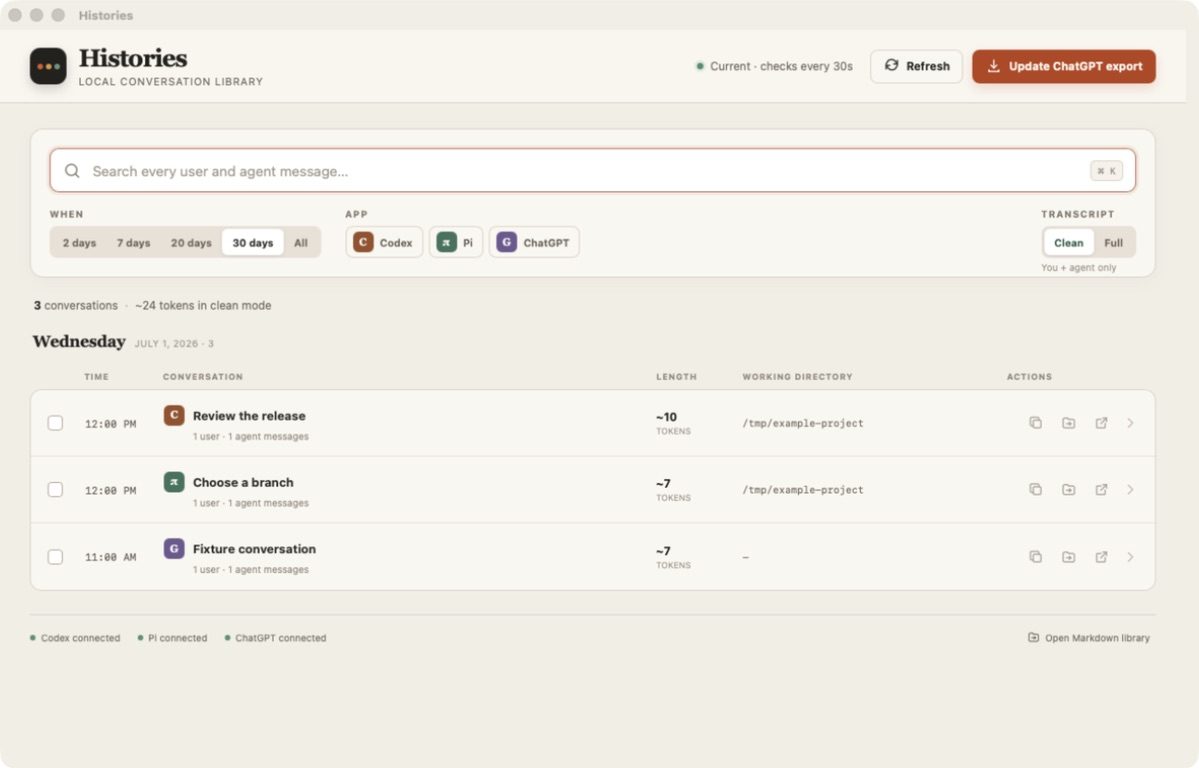
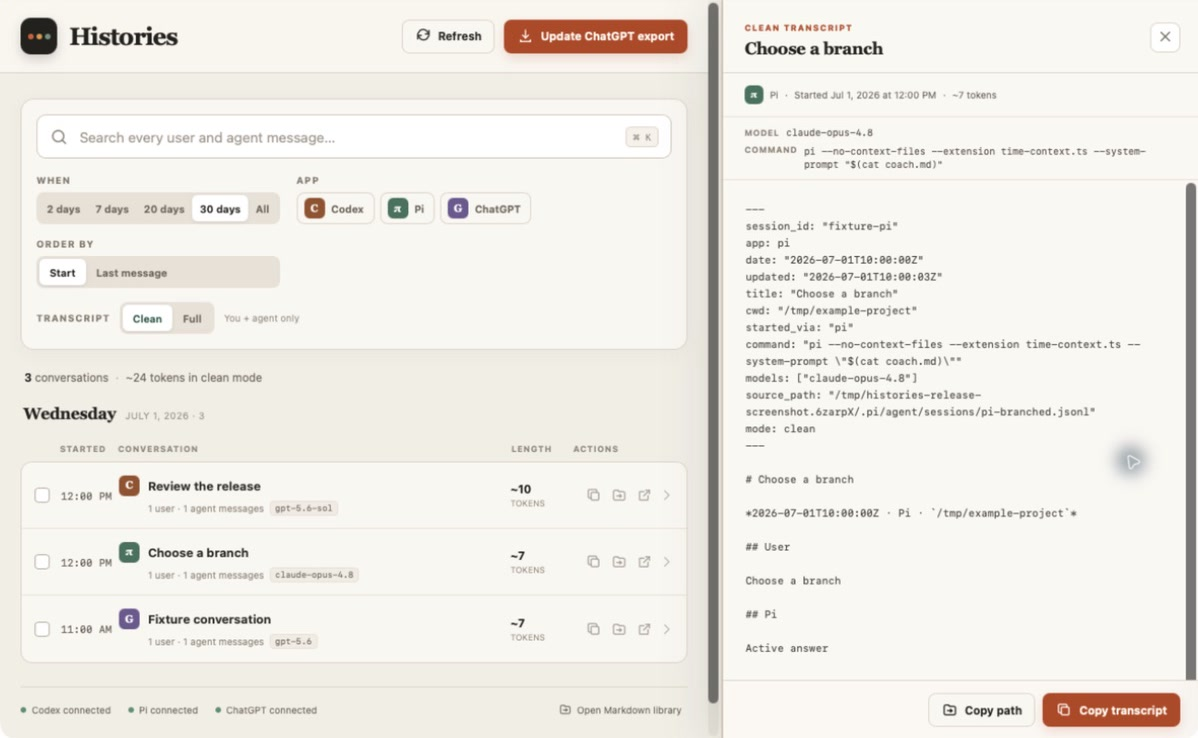
Prepare Histories for its initial public release

diff --git a/crates/histories-core/src/shell_history.rs b/crates/histories-core/src/shell_history.rs
@@ -156,7 +156,7 @@ mod tests {
 : 1784463625:0;pi \\
      --no-context-files \\
      --extension ../.pi/extensions/time-context.ts \\
-     --system-prompt "$(cat ifs-seb-2.md)"
+     --system-prompt "$(cat coach.md)"
 "#,
         );
 
@@ -165,7 +165,7 @@ mod tests {
                 .pi_command_near("2026-07-19T12:20:26.211Z")
                 .as_deref(),
             Some(
-                "pi --no-context-files --extension ../.pi/extensions/time-context.ts --system-prompt \"$(cat ifs-seb-2.md)\""
+                "pi --no-context-files --extension ../.pi/extensions/time-context.ts --system-prompt \"$(cat coach.md)\""
             )
         );
     }

diff --git a/README.md b/README.md
@@ -4,20 +4,36 @@
   <img src="src-tauri/app-icon.png" alt="Histories app icon" width="160">
 </p>
 
-Histories is a local-first macOS desktop app and CLI for finding and reusing
-conversations from Codex, Pi, and ChatGPT.
+Histories is a local-first macOS desktop app and CLI that puts recent Codex, Pi,
+and ChatGPT conversations into one searchable library.
 
 > **Public preview:** Histories is usable today, but the upstream conversation
 > formats are not stable APIs. Parser compatibility is maintained on a
 > best-effort basis with scrubbed regression fixtures.
 
-It is built for a simple recurring task: find the conversations you had recently,
-select the useful ones, and copy either their readable transcripts or their
-Markdown paths into another agent session.
+Find the conversations you had recently, select the useful ones, and copy their
+readable transcripts or stable Markdown paths into another agent session.
 
-![Histories library showing synthetic Codex, Pi, and ChatGPT conversations](docs/images/histories-library.jpg)
+## Why I built it
+
+I use different AI tools with different models to try different things. That
+made it surprisingly difficult to keep an overview of what I had been doing—or
+to bring a useful conversation from one tool into another. I built Histories so
+I could see that work in one place and copy the resulting conversations wherever
+I need them next.
+
+![Histories showing synthetic Codex, Pi, and ChatGPT conversations alongside a clean transcript preview](docs/images/histories-library.jpg)
 
 _Screenshot uses synthetic, scrubbed fixture data._
+
+## Download
+
+Download the latest signed and notarized macOS build from
+[GitHub Releases](https://github.com/sebkouba/histories/releases). Builds are
+published for Apple Silicon and Intel Macs.
+
+Downloadable releases contain the desktop app. Build from source below to install
+both the app and command-line tool.
 
 ## What it does
 
@@ -41,7 +57,7 @@ _Screenshot uses synthetic, scrubbed fixture data._
 - Reads source histories without modifying them. SQLite and Markdown are derived
   data stored under the Histories app-data directory.
 
-## Install locally
+## Build from source
 
 Requirements: macOS, Xcode command-line tools, Rust, Node.js, and pnpm.
 
@@ -60,11 +76,18 @@ Open the app:
 open ~/Applications/Histories.app
 ```
 
+To install the app in the system Applications folder instead:
+
+```bash
+HISTORIES_APP_INSTALL_DIR=/Applications ./scripts/install.sh
+open /Applications/Histories.app
+```
+
 If `~/.local/bin` is not already on `PATH`, either add it or run the CLI using
 its full path.
 
-The local installer builds from source. Downloadable releases, when available,
-are built for Apple Silicon and Intel, Developer ID signed, and notarized.
+The local installer uses an ad-hoc signature. Downloadable releases are built
+for Apple Silicon and Intel, Developer ID signed, and notarized.
 
 ## CLI workflows
 

diff --git a/CHANGELOG.md b/CHANGELOG.md
@@ -7,18 +7,20 @@ the project uses [Semantic Versioning](https://semver.org/spec/v2.0.0.html).
 
 ## [Unreleased]
 
+## [0.1.0] - 2026-07-20
+
 ### Added
 
 - Local-first macOS conversation browser and CLI for Codex, Pi, and ChatGPT.
 - SQLite FTS5 search, clean/full Markdown exports, selection, preview, and Finder
   actions.
+- Conversation model history and best-effort recovery of Pi launch commands from
+  timestamped zsh history.
+- Date-range and source filters, start/last-message ordering, approximate token
+  counts, and multi-conversation export.
 - Private derived-data permissions, orphan cleanup, and on-demand full exports.
 - Cross-process refresh locking and strict ChatGPT import validation.
 - Rust parser fixtures and frontend regression tests.
-
-## [0.1.0] - 2026-07-18
-
-- Initial public preview.
 
 [Unreleased]: https://github.com/sebkouba/histories/compare/v0.1.0...HEAD
 [0.1.0]: https://github.com/sebkouba/histories/releases/tag/v0.1.0
